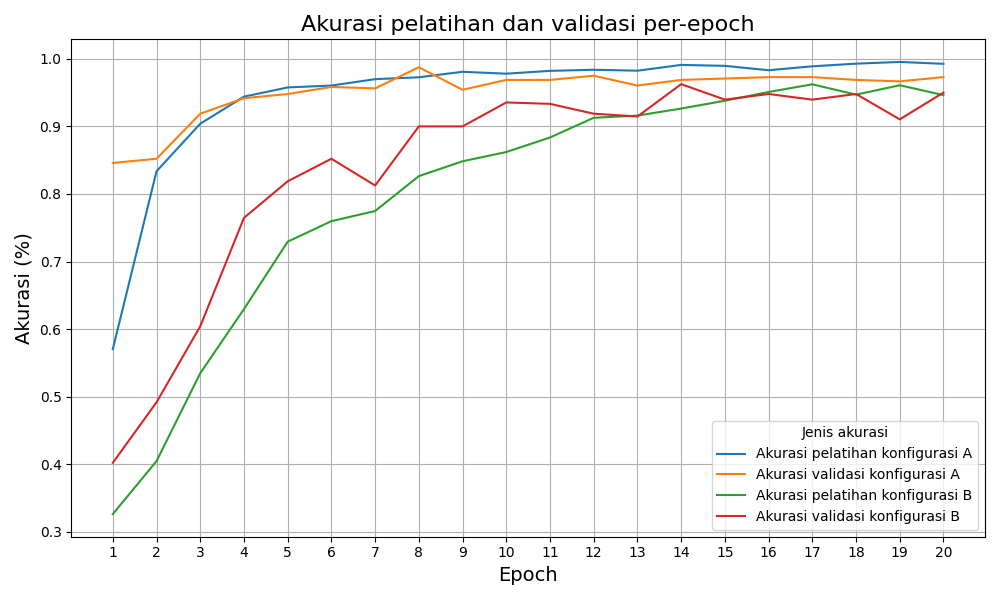
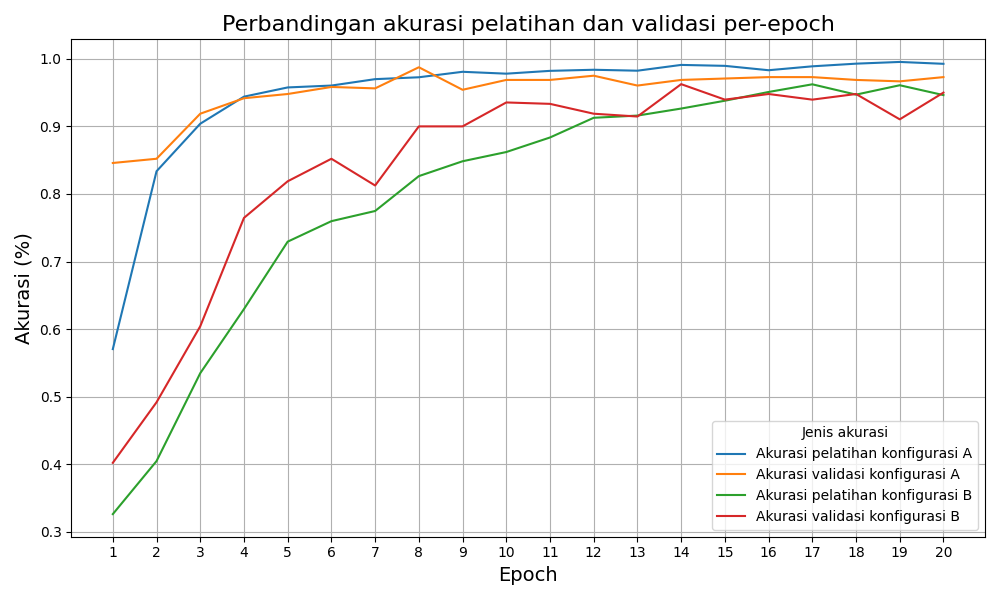
insight: title fix

Changed region(s): [[0.217, 0.03, 0.837, 0.06]]

diff --git a/debug.py b/debug.py
@@ -369,11 +369,11 @@ sns.lineplot(
 
 # Step 5: Customize the plot
 # plt.title(
-#     "Akurasi pelatihan dan validasi per-epoch",
+#     "Perbandingan akurasi pelatihan dan validasi per-epoch",
 #     fontsize=16,
 # )
 plt.title(
-    "Waktu pelatihan per-epoch",
+    "Perbandingan waktu pelatihan per-epoch",
     fontsize=16,
 )
 
